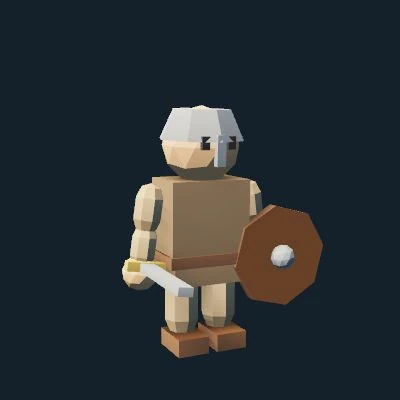
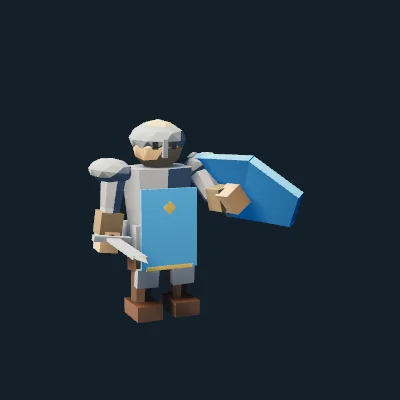
feat(client): Shop portraits for all 25 buyable units, with a coverage test
The fifteen units that showed an empty card (and a 404) now have a
portrait, and the ten old ones are replaced by shots of the current 3D
models, 400x400 WebP in the original framing. A test fails when any
buyable unit lacks a portrait or one is not 400x400 or exceeds 40 KB.

Changed region(s): [[0.21, 0.24, 0.81, 0.9]]

diff --git a/crates/tbg-client/tests/portraits.test.js b/crates/tbg-client/tests/portraits.test.js
@@ -1,0 +1,48 @@
+//! Every buyable unit ships a Shop portrait: 400x400 WebP within the file budget.
+const {test} = require('node:test');
+const assert = require('node:assert/strict');
+const fs = require('node:fs');
+const path = require('node:path');
+
+const root = path.resolve(__dirname, '../../..');
+const portraits = path.resolve(__dirname, '../assets/battle/portraits');
+const BUDGET = 40 * 1024;
+// Same rule as assets/battle/hud.js `slug`.
+const slug = name => name.toLowerCase().replace(/[^a-z0-9]/g, '');
+
+// The contract follows ALL_KINDS and the authoritative summon classification.
+function buyable() {
+  const source = fs.readFileSync(path.join(root, 'crates/tbg-core/src/types.rs'), 'utf8');
+  const all = source.match(/ALL_KINDS: \[UnitKind; \d+\] = \[([\s\S]*?)\];/);
+  const summons = source.match(/pub fn is_summon\(self\) -> bool \{\s*matches!\(self,([\s\S]*?)\)\s*\}/);
+  assert.ok(all, 'ALL_KINDS is declared in tbg-core types.rs');
+  assert.ok(summons, 'the summon classification is declared in tbg-core types.rs');
+  const summoned = new Set([...summons[1].matchAll(/UnitKind::(\w+)/g)].map(m => m[1]));
+  return [...all[1].matchAll(/UnitKind::(\w+)/g)].map(m => m[1]).filter(kind => !summoned.has(kind));
+}
+
+// Reads the canvas size from the RIFF header: VP8X, lossy VP8 or lossless VP8L.
+function webpSize(buffer) {
+  assert.equal(buffer.toString('latin1', 0, 4), 'RIFF');
+  assert.equal(buffer.toString('latin1', 8, 12), 'WEBP');
+  const chunk = buffer.toString('latin1', 12, 16);
+  if (chunk === 'VP8X') return {width: 1 + buffer.readUIntLE(24, 3), height: 1 + buffer.readUIntLE(27, 3)};
+  if (chunk === 'VP8 ') return {width: buffer.readUInt16LE(26) & 0x3fff, height: buffer.readUInt16LE(28) & 0x3fff};
+  if (chunk === 'VP8L') {
+    const bits = buffer.readUInt32LE(21);
+    return {width: (bits & 0x3fff) + 1, height: ((bits >> 14) & 0x3fff) + 1};
+  }
+  assert.fail('unknown WebP chunk ' + chunk);
+}
+
+test('every buyable unit has a 400x400 Shop portrait within 40 KB', () => {
+  const kinds = buyable();
+  assert.ok(kinds.length > 0, 'the buyable roster must not be empty');
+  for (const kind of kinds) {
+    const file = path.join(portraits, slug(kind) + '.webp');
+    assert.ok(fs.existsSync(file), kind + ': missing ' + path.relative(root, file));
+    const buffer = fs.readFileSync(file);
+    assert.deepEqual(webpSize(buffer), {width: 400, height: 400}, kind);
+    assert.ok(buffer.length <= BUDGET, kind + ': ' + buffer.length + ' B > ' + BUDGET + ' B');
+  }
+});
